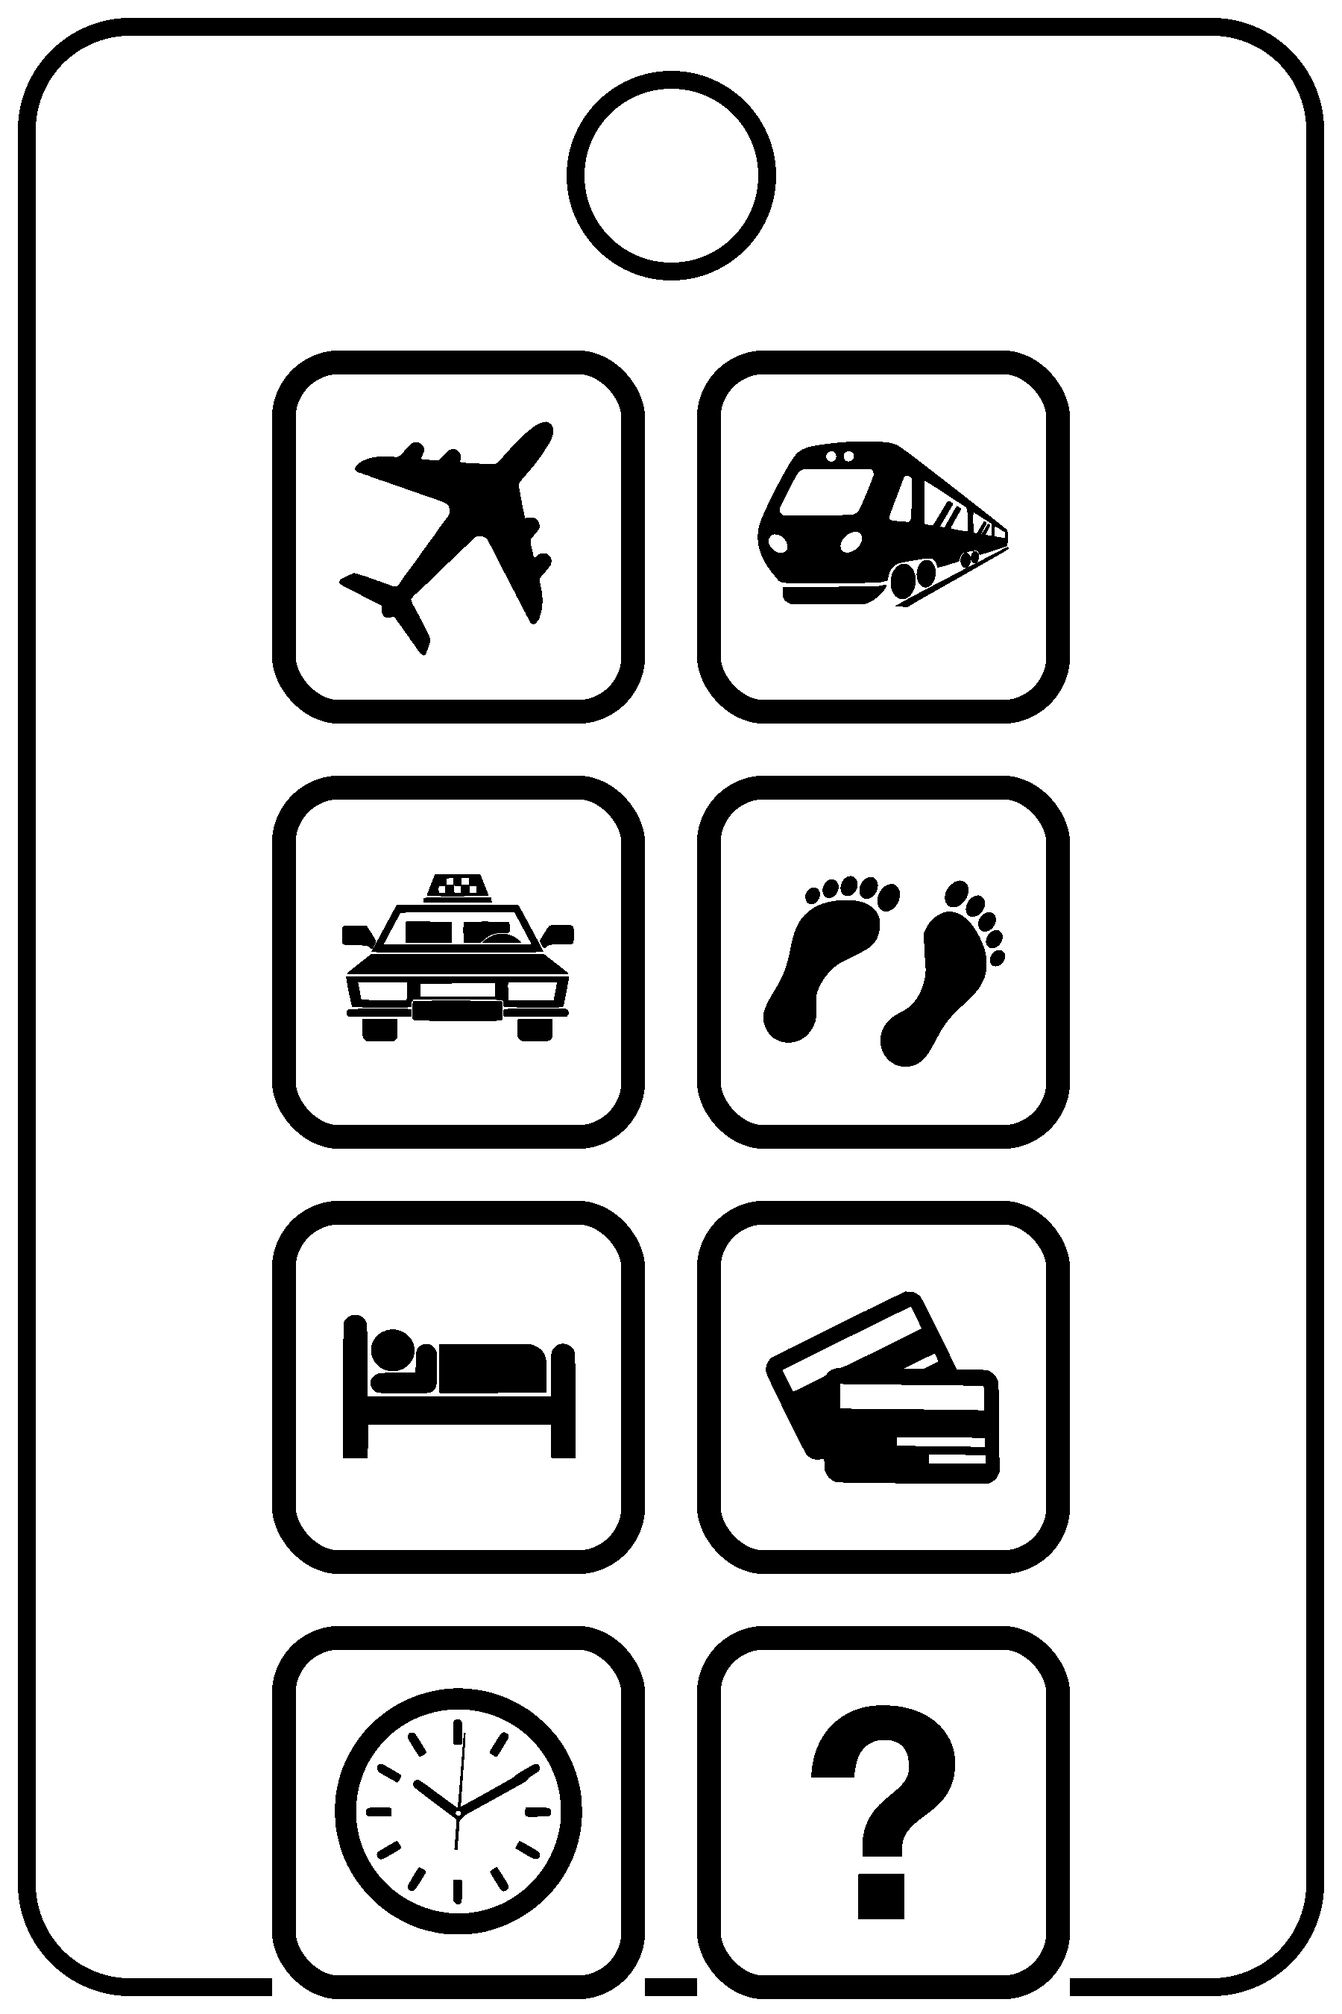
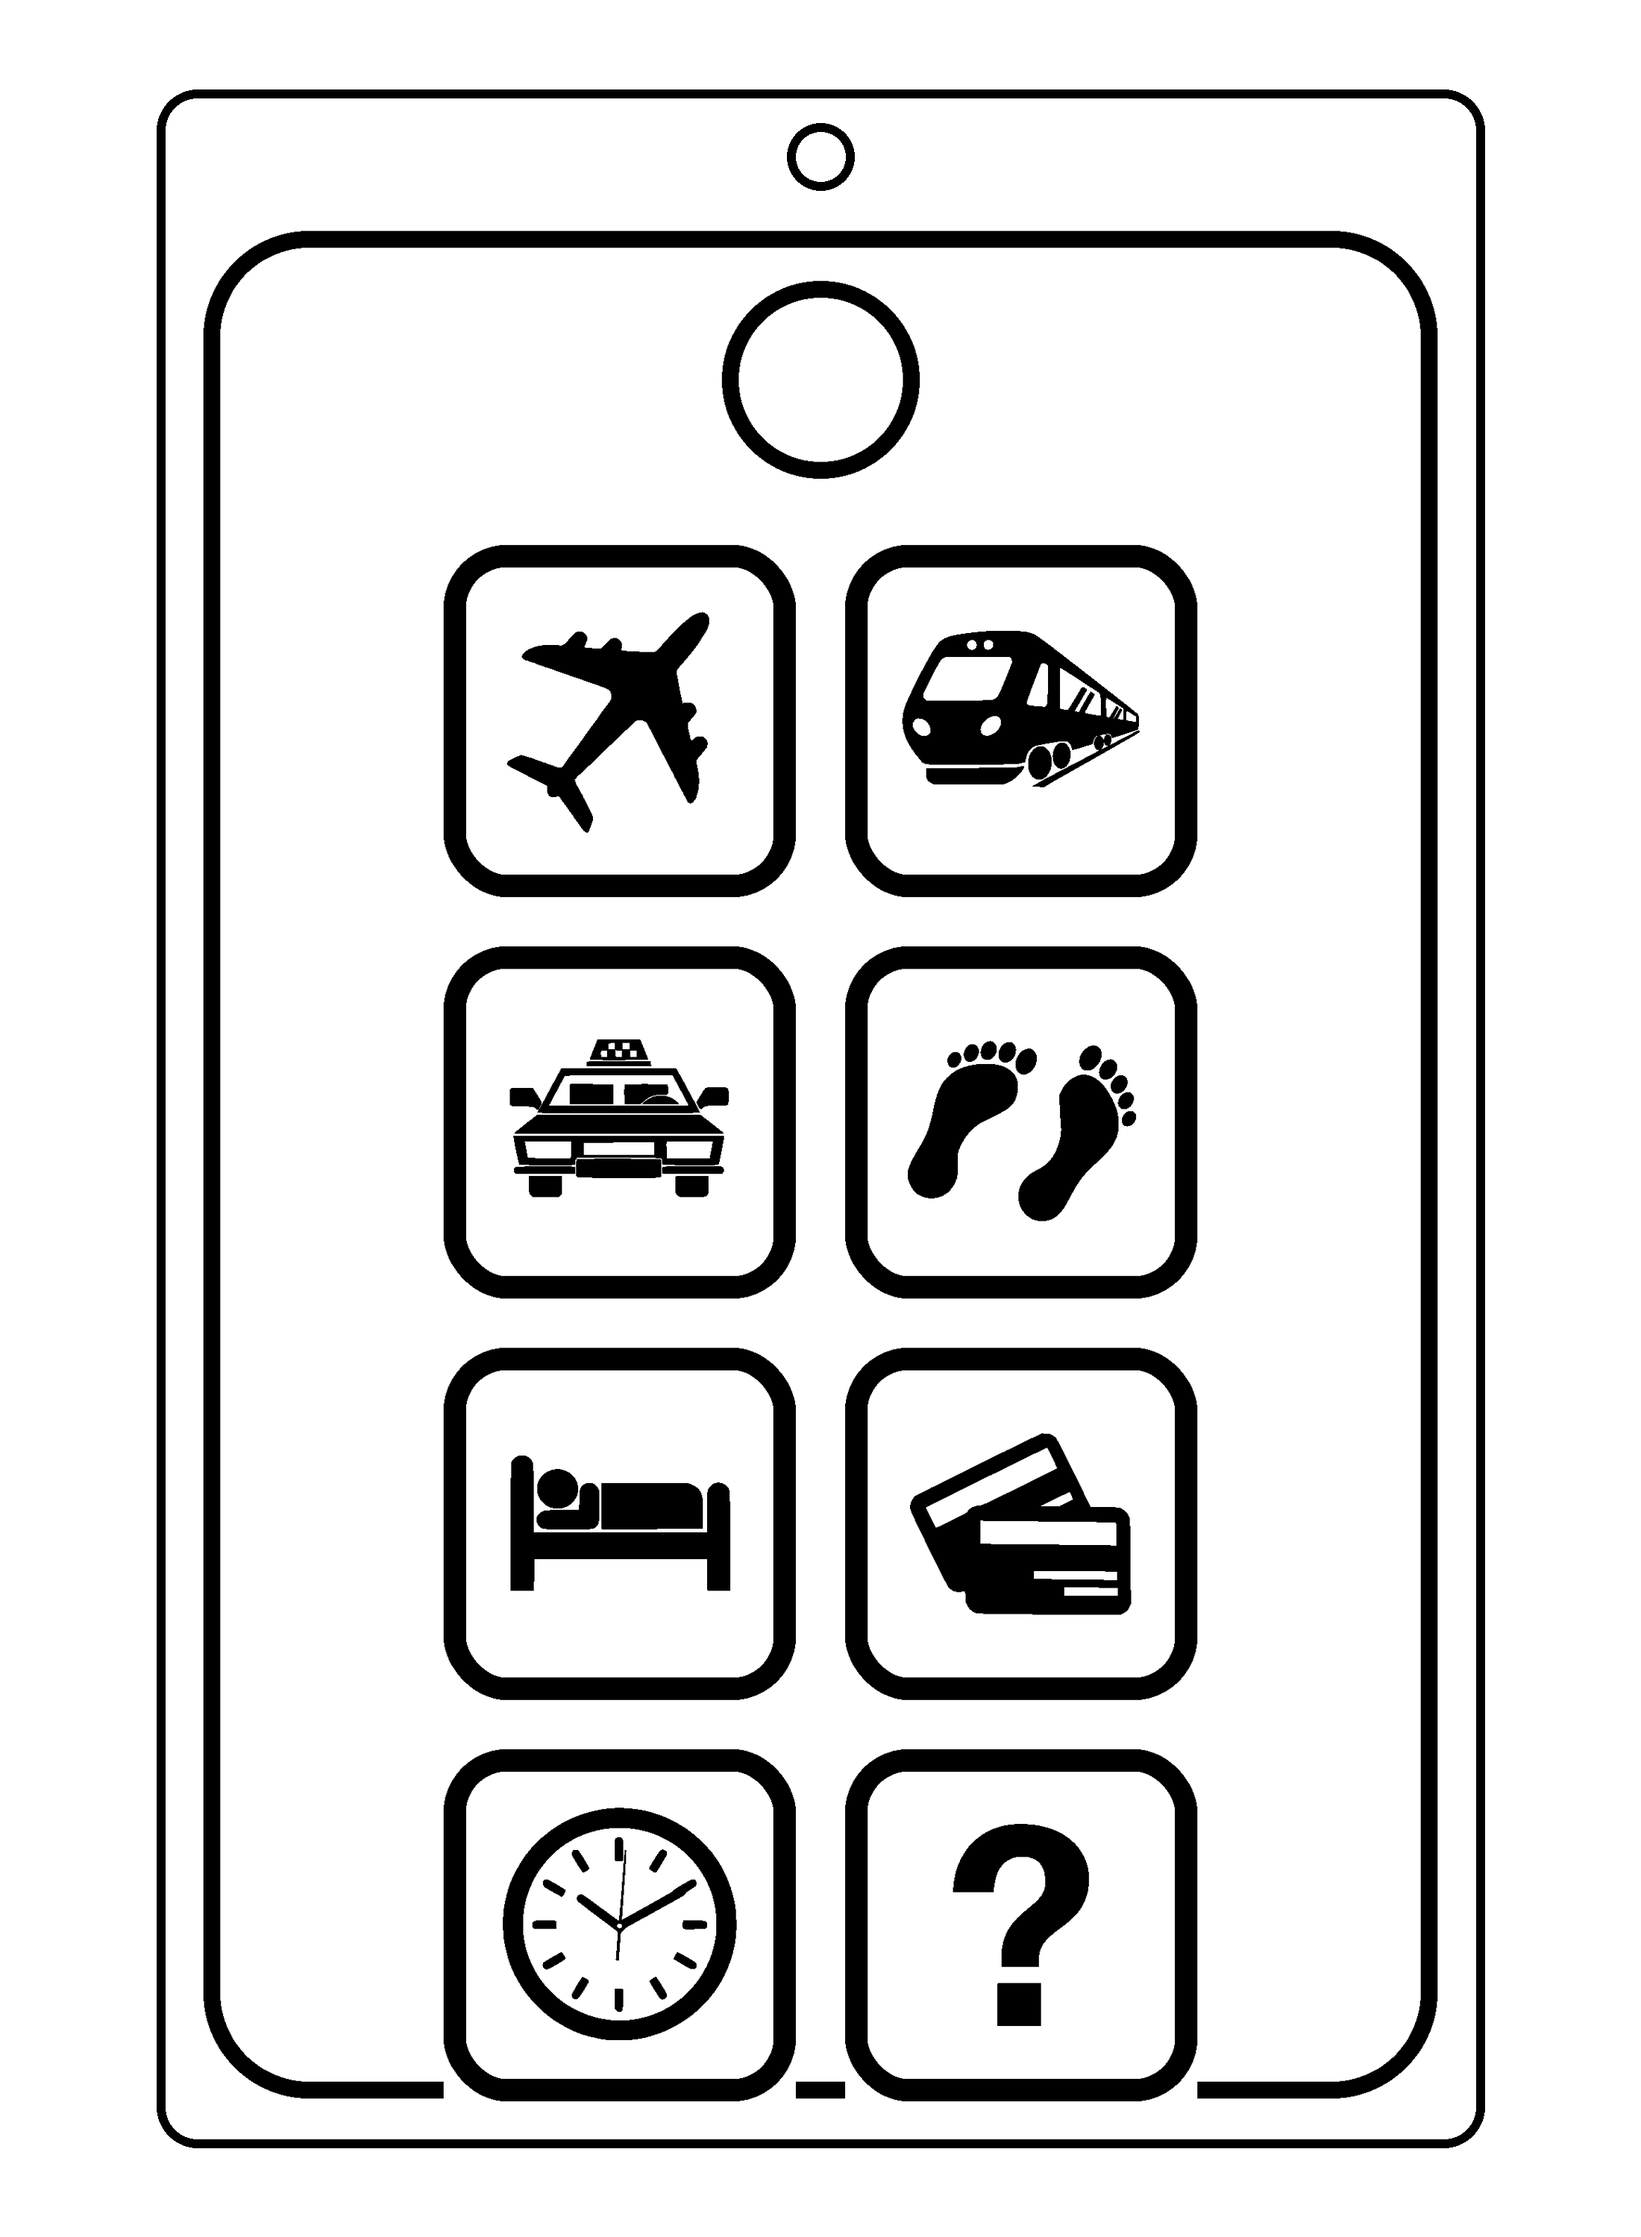
Layouts: standardize artwork and schematic previews

Changed region(s): [[0.0, 0.0, 0.9644, 0.9956], [0.9644, 0.0311, 0.9956, 0.9644]]

diff --git a/tools/make_lighter.py b/tools/make_lighter.py
@@ -8,18 +8,17 @@ import json
 import tempfile
 from pathlib import Path
 
-from PIL import Image, ImageDraw
+from PIL import Image
 
 from make_merch_layout import tile_bitmap
 from render_png import _detect_backend
+from layout_preview import draw_lighter_outline, place_artwork
 
 
-CANVAS = (1500, 3000)
-OUTLINE = 22
-RADIUS = 250
-TILE = 700
-TOP = 470
-GAP = 115
+CANVAS = (900, 2400)
+TILE = 650
+TOP = 170
+GAP = 90
 PREVIEW_MARGIN = 120
 PREVIEW_GAP = 180
 
@@ -28,11 +27,6 @@ def render_side(icon_ids: list[str], temp_dir: Path, icons_dir: Path, backend: s
     if len(icon_ids) != 3:
         raise ValueError(f"lighter side needs exactly 3 icons, got {len(icon_ids)}")
     image = Image.new("RGB", CANVAS, "white")
-    draw = ImageDraw.Draw(image)
-    inset = OUTLINE // 2 + 1
-    draw.rounded_rectangle((inset, inset, image.width - inset - 1, image.height - inset - 1), radius=RADIUS, outline="black", width=OUTLINE)
-    draw.rounded_rectangle((210, 95, 1290, 420), radius=70, outline="black", width=OUTLINE)
-    draw.line((300, 410, 1200, 410), fill="black", width=OUTLINE)
     x = (image.width - TILE) // 2
     for index, icon_id in enumerate(icon_ids):
         tile = tile_bitmap(temp_dir, icons_dir, icon_id, TILE, backend)
@@ -63,9 +57,9 @@ def main() -> int:
     with tempfile.TemporaryDirectory(prefix="pictiq_lighter_") as tmp:
         side_a_image = render_side(side_a, Path(tmp), icons_dir, backend)
         side_b_image = render_side(side_b, Path(tmp), icons_dir, backend)
-    preview = Image.new("RGB", (CANVAS[0] * 2 + PREVIEW_GAP + PREVIEW_MARGIN * 2, CANVAS[1] + PREVIEW_MARGIN * 2), "white")
-    preview.paste(side_a_image, (PREVIEW_MARGIN, PREVIEW_MARGIN))
-    preview.paste(side_b_image, (PREVIEW_MARGIN + CANVAS[0] + PREVIEW_GAP, PREVIEW_MARGIN))
+    preview = Image.new("RGB", (2600, 2800), "white")
+    left=draw_lighter_outline(preview,(170,120,1190,2680)); right=draw_lighter_outline(preview,(1410,120,2430,2680))
+    place_artwork(preview,side_a_image,left); place_artwork(preview,side_b_image,right)
     side_a_image.save(out_dir / "side-a.png")
     side_b_image.save(out_dir / "side-b.png")
     preview.save(out_dir / "preview.png")

diff --git a/tools/layout_preview.py b/tools/layout_preview.py
@@ -1,0 +1,18 @@
+"""Shared black-and-white schematic preview helpers."""
+from PIL import Image, ImageDraw
+
+def place_artwork(canvas, artwork, box):
+    image=artwork.convert('RGB').copy(); image.thumbnail((box[2]-box[0],box[3]-box[1]),Image.Resampling.LANCZOS)
+    x=box[0]+((box[2]-box[0])-image.width)//2; y=box[1]+((box[3]-box[1])-image.height)//2; canvas.paste(image,(x,y))
+
+def draw_phone_outline(canvas, box, width=12):
+    d=ImageDraw.Draw(canvas); d.rounded_rectangle(box,radius=70,outline='black',width=width); d.rounded_rectangle((box[0]+35,box[1]+80,box[2]-35,box[3]-45),radius=38,outline='black',width=width); cx=(box[0]+box[2])//2; d.rounded_rectangle((cx-45,box[1]+28,cx+45,box[1]+40),radius=6,fill='black')
+    return (box[0]+45,box[1]+95,box[2]-45,box[3]-55)
+
+def draw_lighter_outline(canvas, box, width=12):
+    d=ImageDraw.Draw(canvas); d.rounded_rectangle(box,radius=80,outline='black',width=width); d.rounded_rectangle((box[0]+35,box[1]+30,box[2]-35,box[1]+150),radius=25,outline='black',width=width); d.line((box[0]+65,box[1]+148,box[2]-65,box[1]+148),fill='black',width=width)
+    return (box[0]+55,box[1]+175,box[2]-55,box[3]-55)
+
+def draw_luggage_tag_outline(canvas, box, width=12):
+    d=ImageDraw.Draw(canvas); d.rounded_rectangle(box,radius=55,outline='black',width=width); cx=(box[0]+box[2])//2; d.ellipse((cx-45,box[1]+45,cx+45,box[1]+135),outline='black',width=width)
+    return (box[0]+40,box[1]+165,box[2]-40,box[3]-40)

diff --git a/tools/make_luggage_tag.py b/tools/make_luggage_tag.py
@@ -6,6 +6,7 @@ from pathlib import Path
 from PIL import Image, ImageDraw
 from make_merch_layout import tile_bitmap
 from render_png import _detect_backend
+from layout_preview import draw_luggage_tag_outline, place_artwork
 
 SIZE=(1800, 2700)
 def main() -> int:
@@ -21,7 +22,7 @@ def main() -> int:
     with tempfile.TemporaryDirectory(prefix='pictiq_tag_') as tmp:
       for n,icon in enumerate(ids):
         image=tile_bitmap(Path(tmp),icons,icon,tile,backend); row,col=divmod(n,2); canvas.paste(image,(x0+col*(tile+gap),y0+row*(tile+gap)))
-    canvas.save(out/'artwork.png',dpi=(600,600)); canvas.save(out/'preview.png',dpi=(600,600)); canvas.save(out/f'{args.profile}-luggage-tag.pdf','PDF',resolution=600)
+    canvas.save(out/'artwork.png',dpi=(600,600)); preview=Image.new('RGB',(2200,3000),'white'); printable=draw_luggage_tag_outline(preview,(210,120,1990,2880)); place_artwork(preview,canvas,printable); preview.save(out/'preview.png',dpi=(600,600)); canvas.save(out/f'{args.profile}-luggage-tag.pdf','PDF',resolution=600)
     print(f'Wrote: {out}')
     return 0
 if __name__=='__main__': raise SystemExit(main())

diff --git a/tools/make_phone_lockscreen.py b/tools/make_phone_lockscreen.py
@@ -6,6 +6,7 @@ from pathlib import Path
 from PIL import Image
 from make_merch_layout import tile_bitmap
 from render_png import _detect_backend
+from layout_preview import draw_phone_outline, place_artwork
 
 SIZE=(1440,3200); TOP_SAFE=420; BOTTOM_SAFE=520
 def main() -> int:
@@ -20,5 +21,5 @@ def main() -> int:
     with tempfile.TemporaryDirectory(prefix='pictiq_phone_') as tmp:
       for n,icon in enumerate(ids):
         tile_image=tile_bitmap(Path(tmp),icons,icon,tile,backend); row,col=divmod(n,cols); image.paste(tile_image,(x0+col*(tile+gap),y0+row*(tile+gap)))
-    image.save(out/'wallpaper.png',dpi=(400,400)); image.save(out/'preview.png',dpi=(400,400)); print(f'Wrote: {out}'); return 0
+    image.save(out/'wallpaper.png',dpi=(400,400)); preview=Image.new('RGB',(1800,3600),'white'); screen=draw_phone_outline(preview,(130,100,1670,3500)); place_artwork(preview,image,screen); preview.save(out/'preview.png',dpi=(400,400)); print(f'Wrote: {out}'); return 0
 if __name__=='__main__': raise SystemExit(main())

diff --git a/layouts/README.md b/layouts/README.md
@@ -13,3 +13,11 @@ python3 tools/make_wallet_card.py --profile paris
 ```
 
 Additional physical layouts: **Luggage Tag / Sticker** and **Phone Lock Screen**. Both read a profile; the layout script determines the form factor.
+
+### Output layers
+
+- Artwork — exact flat production graphic.
+- Preview — schematic object with the exact artwork applied.
+- Mockup — optional realistic presentation image.
+
+Previews must consume generated artwork or canonical SVG assets. They must never redraw or reinterpret Pictiq icons. Future shirt previews use a black-outline T-shirt schematic; the approved Paris shirt assets remain unchanged.
